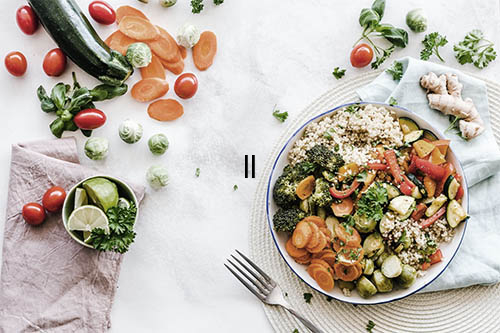
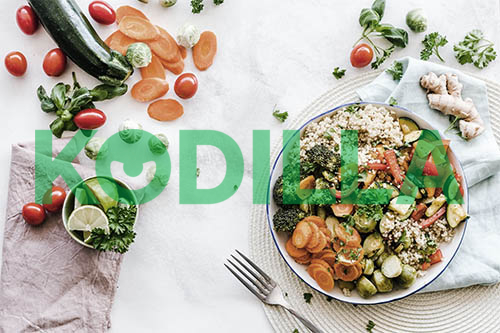
Add consts editOptions and watermarkOptions

Changed region(s): [[0.06, 0.3904, 0.93, 0.6306]]

diff --git a/app.js b/app.js
@@ -66,27 +66,45 @@ const startApp = async () => {
     message: 'What file do you want to mark?',
     default: 'test.jpg',
   }, {
-    name: 'watermarkType',
-    type: 'list',
-    choices: ['Text watermark', 'Image watermark'],
+    name: 'editImage',
+    message: 'Do you want to edit image?',
+    type: 'confirm'
   }]);
+
+  if (options.editImage) {
+    const editOptions = await inquirer.prompt([{
+      name: 'modify',
+      type: 'list',
+      message: 'Choose how to modify the image:',
+      choices: ['make image brighter', 'increace contrast', 'make image b&w', 'invert image']
+    }]);
+  }
+
+  const watermarkOptions = await inquirer.prompt([
+    {
+        name: 'watermarkType',
+        type: 'list',
+        message: 'Choose the type of watermark:',
+        choices: ['Text watermark', 'Image watermark'],
+    }
+  ]);
 
   const inputImagePath = './img/' + options.inputImage;
   const outputImagePath = './img/' + prepareOutputFilename(options.inputImage);
 
-  if(options.watermarkType === 'Text watermark') {
+  if(watermarkOptions.watermarkType === 'Text watermark') {
     const text = await inquirer.prompt([{
       name: 'value',
       type: 'input',
       message: 'Type your watermark text:',
     }]);
-    options.watermarkText = text.value;
+    watermarkOptions.watermarkText = text.value;
 
     fs.access(inputImagePath, fs.constants.F_OK, (err) => {
       if (err) {
         console.error(`${inputImagePath} file does not exist!`);
       } else {
-        addTextWatermarkToImage(inputImagePath, outputImagePath, options.watermarkText);
+        addTextWatermarkToImage(inputImagePath, outputImagePath, watermarkOptions.watermarkText);
       }
     });
   }
@@ -97,8 +115,8 @@ const startApp = async () => {
       message: 'Type your watermark name:',
       default: 'logo.png',
     }]);
-    options.watermarkImage = image.filename;
-    const watermarkImagePath = './img/' + options.watermarkImage;
+    watermarkOptions.watermarkImage = image.filename;
+    const watermarkImagePath = './img/' + watermarkOptions.watermarkImage;
 
     fs.access(inputImagePath, fs.constants.F_OK, (err1) => {
       fs.access(watermarkImagePath, fs.constants.F_OK, (err2) => {
